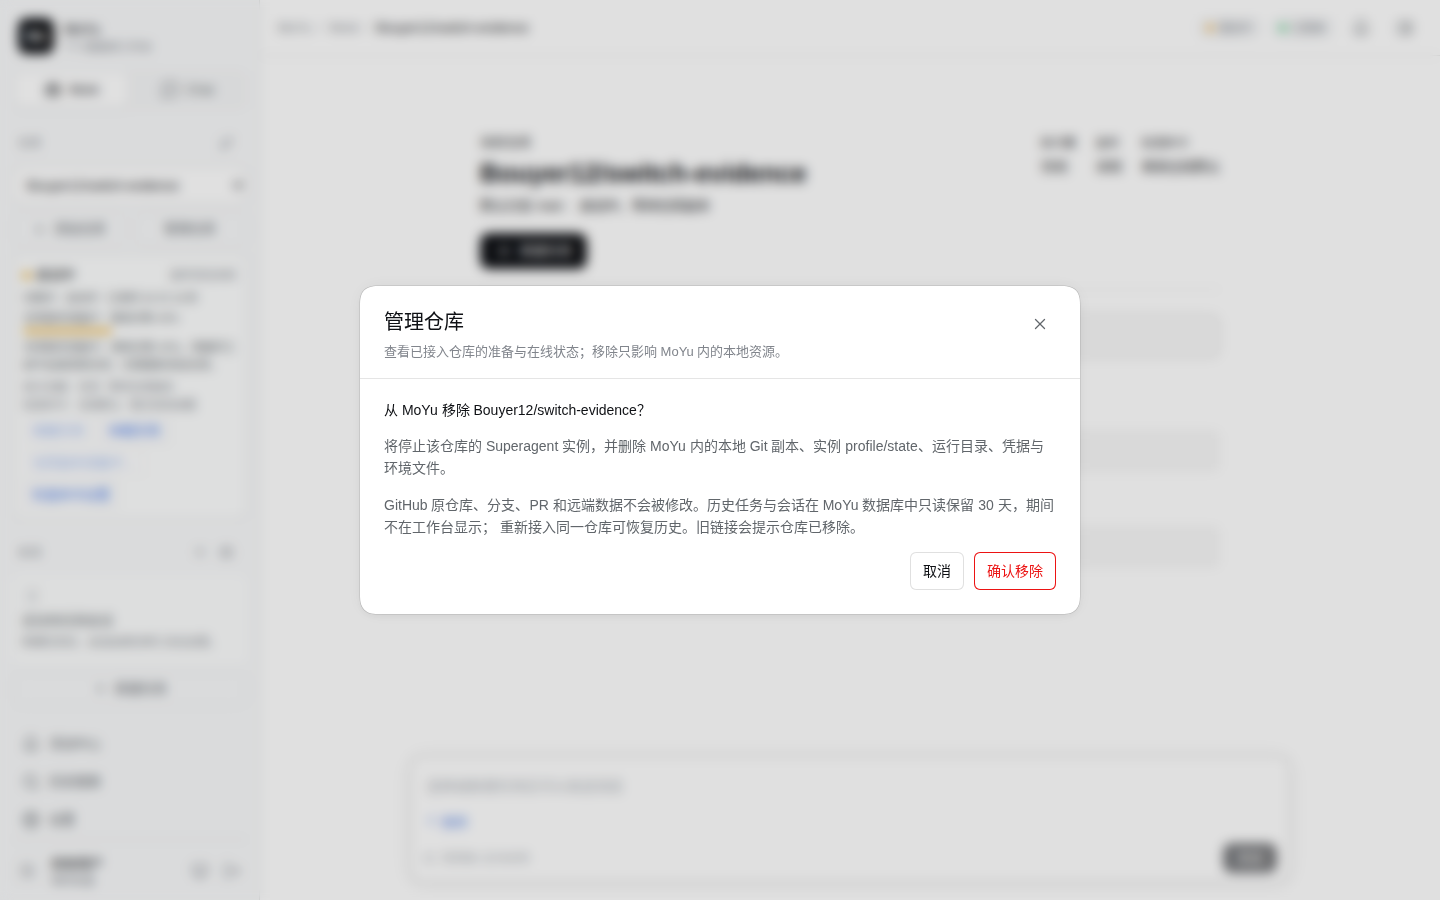
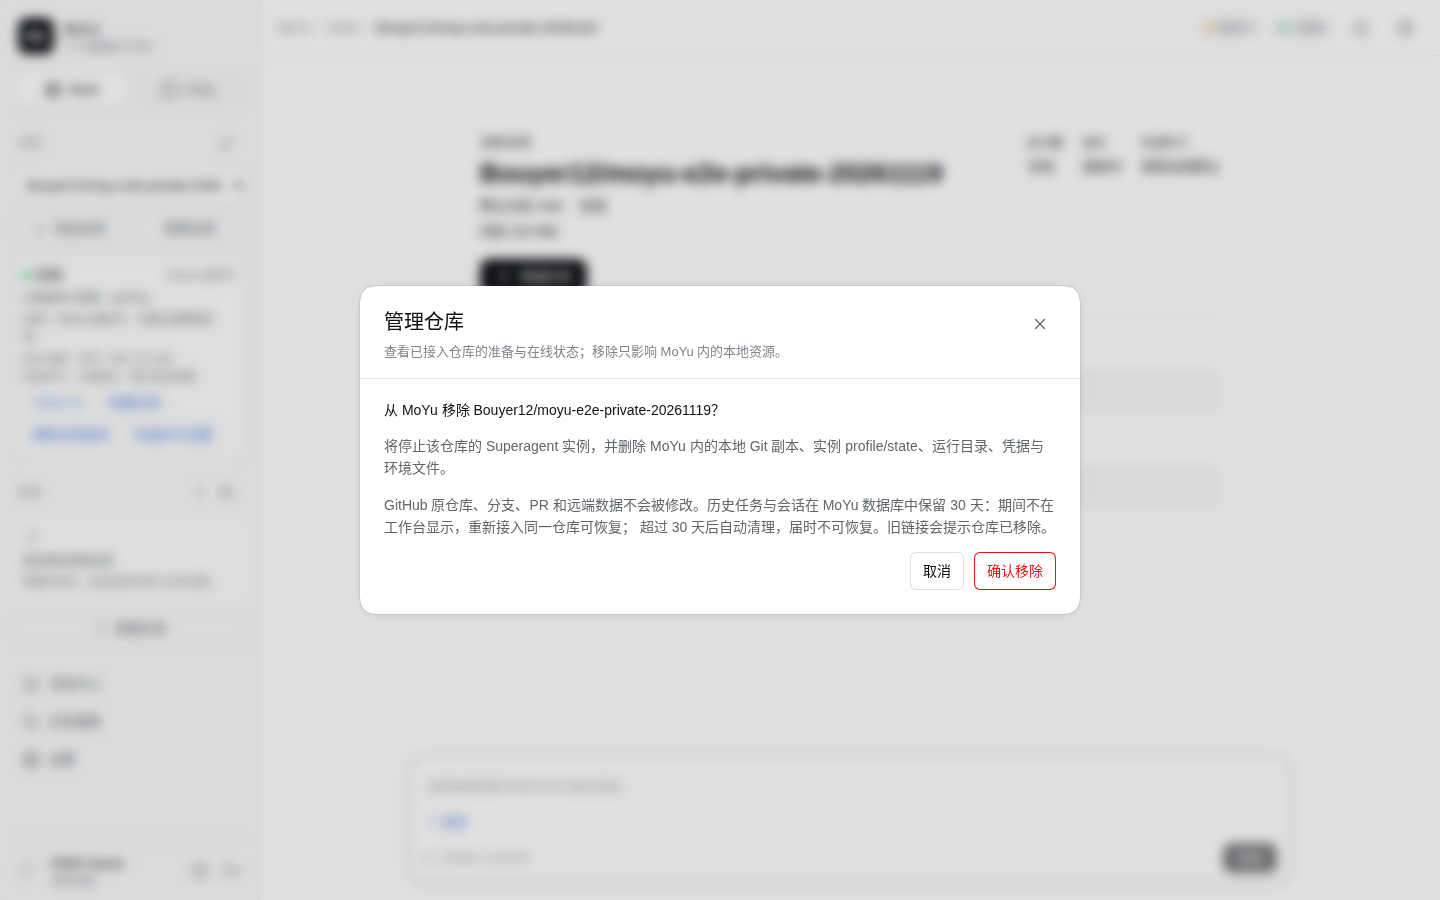
test(repositories): capture the real removal and retention boundary
The isolated run removes one of two online throwaway repositories through the
real API and supervisor. An immutable profile directory makes local cleanup
fail with 503/failed; restarting the API converts the simulated interrupted
deleting row to retryable failed; retry removes every profile, home, worktree,
credential, env and log path, leaves the other instance online, leaves the
GitHub remote id/pushed_at unchanged, and re-adding the same full name reuses
the same repository id and reaches online.

Refresh the management screenshots for the corrected 30-day wording: history
is recoverable during the window and purged after it.

diff --git a/apps/web/src/shell/RepositoryManagementDialog.tsx b/apps/web/src/shell/RepositoryManagementDialog.tsx
@@ -94,9 +94,10 @@ export function RepositoryManagementDialog({
             profile/state、运行目录、凭据与环境文件。
           </p>
           <p>
-            GitHub 原仓库、分支、PR 和远端数据不会被修改。历史任务与会话在 MoYu 数据库中只读保留{' '}
-            {REPOSITORY_HISTORY_RETENTION_DAYS} 天，期间不在工作台显示；
-            重新接入同一仓库可恢复历史。旧链接会提示仓库已移除。
+            GitHub 原仓库、分支、PR 和远端数据不会被修改。历史任务与会话在 MoYu 数据库中保留{' '}
+            {REPOSITORY_HISTORY_RETENTION_DAYS} 天：期间不在工作台显示，重新接入同一仓库可恢复；
+            超过 {REPOSITORY_HISTORY_RETENTION_DAYS}{' '}
+            天后自动清理，届时不可恢复。旧链接会提示仓库已移除。
           </p>
           {confirming.deletion?.state === 'failed' && confirming.deletion.detail ? (
             <p className={styles.error}>上次移除失败：{confirming.deletion.detail}</p>

diff --git a/docs/evidence/m6c-removal/README.md b/docs/evidence/m6c-removal/README.md
@@ -1,21 +1,45 @@
-# 仓库管理入口与移除确认：前后对照
+# 仓库移除：真实失败、重试、重启恢复与重新接入
 
-同一套真实 Web shell、真实 API、真实 PostgreSQL 数据，两个本地进程分别从
-`main` 和本 PR 分支启动。除 Web/API 代码版本外，场景完全相同。
+2026-11-19 在宿主机隔离栈执行，验证 Issue #87 第 3 项返修。用的是真实 API、
+真实 supervisor（`moyu-m6c`）和真实 dsh runtime；没有 mock 接单或执行。
 
-| 项 | 值 |
-| --- | --- |
-| 基线 | `main` `e6470da1031946eba23aa40913227025dfee971a` |
-| 变更后 | 本 PR 分支 `agent/repository-removal-0d75896816b6`（含 #89 的基线提交） |
-| 仓库 | `Bouyer12/switch-evidence`（隔离测试库 `moyu_ui_evidence`） |
-| 浏览器 | Chromium 1440×900，浅色主题 |
-| 入口 | `http://127.0.0.1:5173/?repo=22222222-2222-4222-8222-222222222222` |
+## 环境
 
-- `before-desktop-light.png`：`main` 侧栏只有「添加仓库」，没有仓库管理入口。
-- `after-management-desktop-light.png`：同一侧栏显示「管理仓库」，弹窗列出已接入
-  仓库、实例/仓库副本状态和「从 MoYu 移除」。
-- `after-confirm-desktop-light.png`：确认页展示仓库全名、本地清理范围、GitHub
-  远端不受影响，以及历史任务/会话 30 天只读保留与重新接入说明。
+- API `127.0.0.1:3102`，隔离 PostgreSQL `moyu_iso_pr90`。
+- supervisor `127.0.0.1:44991`，以 `moyu-m6c`（uid 988 / gid 982）运行，
+  真实 capability 边界、真实 profile 模板和 `/opt/moyu-m6c/bin/gh-agent`。
+- 两个一次性、同为 `Bouyer12` 所有的仓库：
+  - 被移除：`Bouyer12/moyu-e2e-public-20261119`，profile `iso-1`。
+  - 对照保留：`Bouyer12/moyu-e2e-private-20261119`，profile `iso-2`。
+- 两个实例都先进入 online；GitHub 远端只读，不修改分支、PR 或仓库设置。
 
-截图来自本地运行的真实应用（API 读取真实数据库行，Web 由 Vite 开发服务器
-提供），不是静态页面或设计稿。本次未点击最终确认，因此没有删除取证仓库。
+## 步骤与结果
+
+1. 首次 `DELETE` 前把 `dsh/profiles/iso-1` 设为 immutable，使 supervisor 的
+   本地清理真实失败。API 返回 503，仓库状态为 `failed`，`attempts=1`，
+   `deletion_operation_id` 为 NULL；实例已被停止，另一个仓库仍 online。
+2. 模拟服务在 `deleting` 中被中断：数据库写入 `deletion_state=deleting` 和
+   一个 operation id，停止 API 后重启。启动恢复把状态改为 `failed`，清空
+   operation id，并提示“服务重启中断了移除……请重试”。
+3. 去掉 immutable 标记后重试同一 `DELETE`：HTTP 202，状态 `removed`，
+   `attempts=2`，`removed_at` 和 30 天后的 `historyExpiresAt` 写入；operation
+   id 清空。
+4. 清理核对：profile、runtime home、worktree、credentials、instance env、log
+   六类路径全部不存在；`repository_instances` 只剩对照仓库；仓库管理列表不再
+   显示被移除仓库，旧链接返回 404。
+5. 对照仓库 panel 仍 `runtime=ready`、账号 `Bouyer12`、仓库不变；进程未重启。
+6. GitHub 仓库的 `id`、`full_name`、`pushed_at` 在移除前后完全一致。
+7. 重新 `POST /api/v1/repositories` 同一全名：HTTP 201，复用同一个仓库 id，
+   重新准备并唤醒 `iso-1`，两个实例再次同时 online。
+
+原始事实、HTTP 观测和脱敏日志：
+
+- `runtime-facts.json`
+- `http-observations.log`
+- `supervisor-redacted.log`
+- `before-desktop-light.png` / `after-management-desktop-light.png` /
+  `after-confirm-desktop-light.png`：管理入口、管理对话框与移除确认文案。
+
+日志不含 token、私钥、Cookie、`.env` 内容或 GitHub 私有数据。验证结束后停止
+隔离 supervisor/API/runtime，删除临时资料和隔离数据库；生产 supervisor、
+生产数据库、`/var/lib/moyu-m6c` 和 GitHub 远端未修改。
